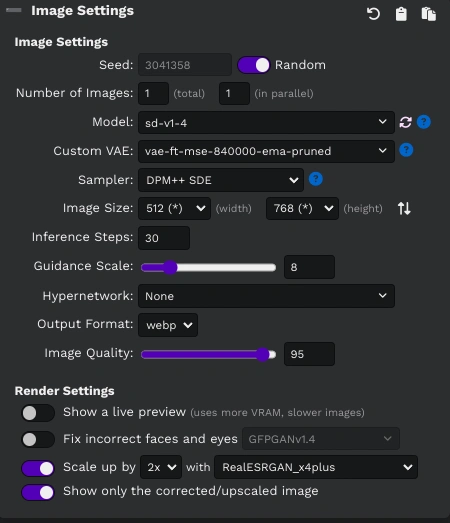
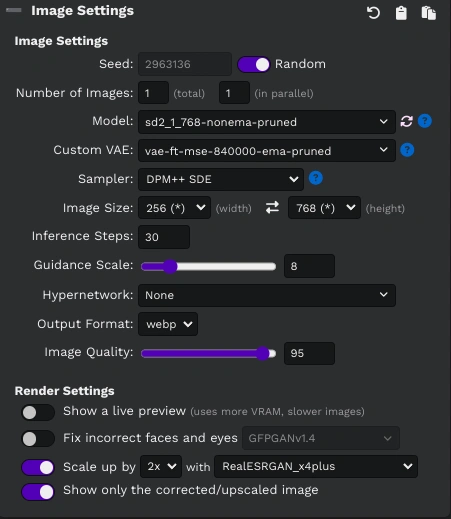
Move the button to in between the width and height selects

diff --git a/ui/switch-height-width.plugin.js b/ui/switch-height-width.plugin.js
@@ -1,68 +1,67 @@
 /**
  * Switch Height & Width
- * v.1.0.1, 2022-02-23
+ * v.1.0.2, 2022-02-23
  * 
  * https://github.com/ogmaresca/easydiffusion-plugins
  */
 
-"use strict";
+ "use strict";
 
-(function() {
-    /**
-     * 
-     * @param {string} tag 
-     * @param {object} attributes
-     * @param {Array<string>} classes
-     * @returns {HTMLElement}
-     */
-    function createElement(tagName, attributes, classes, text) {
-        const element = document.createElement(tagName);
-        if (attributes) {
-            Object.entries(attributes).forEach(([key, value]) => {
-                element.setAttribute(key, value);
-            });
-        }
-        if (classes) {
-            classes.forEach(className => element.classList.add(className));
-        }
-        if (text) {
-            element.appendChild(document.createTextNode(text));
-        }
-        return element;
-    }
-
-    /** @type {HTMLSelectElement} */
-    const widthElem = document.getElementById('width');
-    /** @type {HTMLSelectElement} */
-    const heightElem = document.getElementById('height');
-
-    const switchButton = createElement(
-        'button',
-        { id: `switch-width-height` },
-    );
-    switchButton.style.cursor = 'pointer';
-    switchButton.style.background = 'transparent';
-    switchButton.style.padding = '2px';
-    switchButton.addEventListener('click', () => {
-        const width = widthElem.value;
-        const height = heightElem.value;
-
-        widthElem.value = height;
-        heightElem.value = width;
-
-        // Save the new values on reloads
-        widthElem.dispatchEvent(new Event('change'));
-        heightElem.dispatchEvent(new Event('change'));
-    });
-
-    // I want to use arrow-up-arrow-down, but that's a pro icon
-    const switchButtonIcon = createElement(
-        'i',
-        undefined,
-        ['fa-solid', 'fa-right-left'],
-    );
-    switchButtonIcon.style.transform = 'rotate(-90deg)'
-    switchButton.appendChild(switchButtonIcon);
-
-    widthElem.parentElement.appendChild(switchButton);
-})();
+ (function() {
+     /**
+      * 
+      * @param {string} tag 
+      * @param {object} attributes
+      * @param {Array<string>} classes
+      * @returns {HTMLElement}
+      */
+     function createElement(tagName, attributes, classes, text) {
+         const element = document.createElement(tagName);
+         if (attributes) {
+             Object.entries(attributes).forEach(([key, value]) => {
+                 element.setAttribute(key, value);
+             });
+         }
+         if (classes) {
+             classes.forEach(className => element.classList.add(className));
+         }
+         if (text) {
+             element.appendChild(document.createTextNode(text));
+         }
+         return element;
+     }
+ 
+     /** @type {HTMLSelectElement} */
+     const widthElem = document.getElementById('width');
+     /** @type {HTMLSelectElement} */
+     const heightElem = document.getElementById('height');
+ 
+     const switchButton = createElement(
+         'button',
+         { id: `switch-width-height` },
+     );
+     switchButton.style.cursor = 'pointer';
+     switchButton.style.background = 'transparent';
+     switchButton.style.padding = '2px 10px 2px 0';
+     switchButton.addEventListener('click', () => {
+         const width = widthElem.value;
+         const height = heightElem.value;
+ 
+         widthElem.value = height;
+         heightElem.value = width;
+ 
+         // Save the new values on reloads
+         widthElem.dispatchEvent(new Event('change'));
+         heightElem.dispatchEvent(new Event('change'));
+     });
+ 
+     const switchButtonIcon = createElement(
+         'i',
+         undefined,
+         ['fa-solid', 'fa-right-left'],
+     );
+     switchButton.appendChild(switchButtonIcon);
+ 
+     heightElem.insertAdjacentElement('beforebegin', switchButton);
+ })();
+ 
